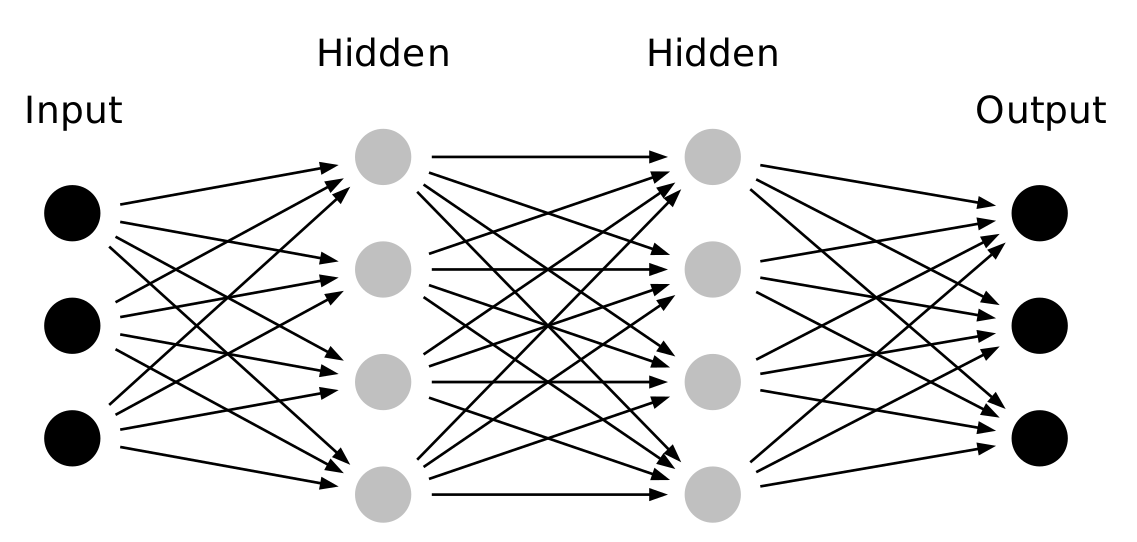
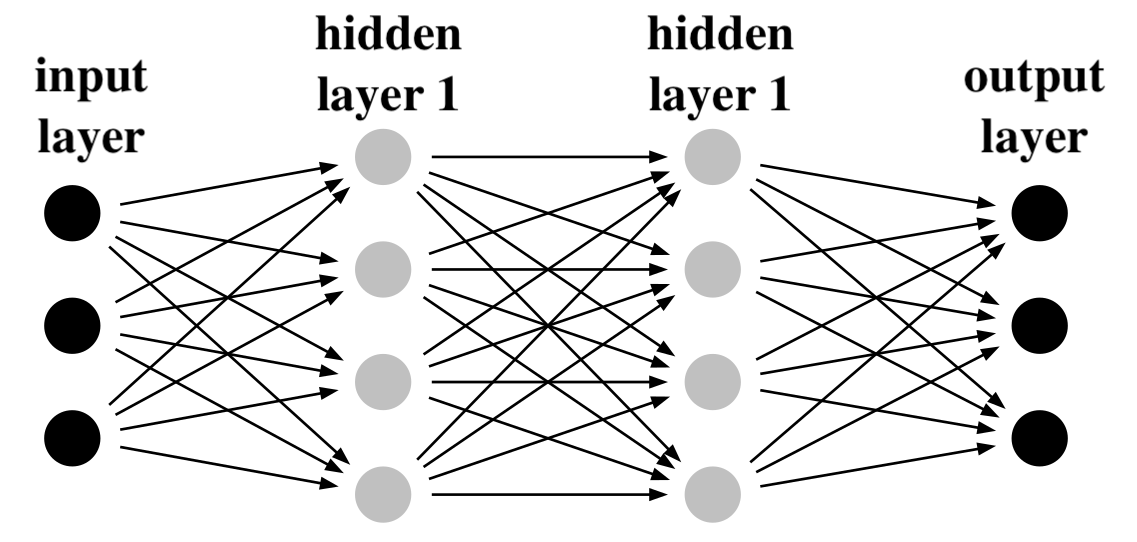
fixing some layout bugs and picture labels

diff --git a/README.md b/README.md
@@ -1,5 +1,7 @@
 # Simple Neural Network in Python Using Numpy
 
+---
+
 ## Prerequisites
 
 All you need is a working version of Python and Numpy. 
@@ -12,7 +14,11 @@ To install numpy:
 pip install numpy
 ```
 
+---
+
 ## Some Theoretical Basics
+
+---
 
 ### Neural Nets
 
@@ -24,7 +30,9 @@ Here is the layout:
 
 (Thanks to the author [this repo](https://github.com/martisak/dotnets) for typing up a quick and pretty visualization tool)
 
-#### Forward Pass
+---
+
+#### Forward Path
 
 Each edge has a weight, and inside each node there is some sort of activation function that is applied to the data that is coming in. Here is how everything happens:
 
@@ -42,15 +50,31 @@ In mathematical terms, we can express what happens in each node in the following
 
 This expression is exactly the ouput value of each node in the network. Here, *v<sub>i</sub>* is the *i<sup>th</sup>* input into the *j<sup>th</sup>* node, multiplied by the weight *w<sub>ij</sub>*, which is diplayed as the edge connecting input node *i* to the node *j*. The mysterious φ symbol is the activation function, and in this example we will use ReLU(Rectifier Linear Unit) and Sigmoid activation functions. Both of these functions are pretty straight-forward and common, so I will just show the formulas.
 
-Sigmoid function: ![alt text](https://github.com/antonarapin/simple_nn_python/blob/project_description/images/sigmoid.png "Sigmoid") 
+---
 
-ReLU function: ![alt text](https://github.com/antonarapin/simple_nn_python/blob/project_description/images/relu.png "ReLU")
+Sigmoid function: 
 
-The operation described above happens in each node in each layer, going from left to right from the first hidden layer to the output layer. Eventually, the outputs of the nodes in the ouput layer are the outputs of our network. And that is pretty much it for the forward pass, very straight-forward (yes, you have been PUNished)! 
+![alt text](https://github.com/antonarapin/simple_nn_python/blob/project_description/images/sigmoid.png "Sigmoid") 
+
+ReLU function: 
+
+![alt text](https://github.com/antonarapin/simple_nn_python/blob/project_description/images/relu.png "ReLU")
+---
+
+The operation described above happens in each node in each layer, going from left to right from the first hidden layer to the output layer. Eventually, the outputs of the nodes in the ouput layer are the outputs of our network. And that is pretty much it for the forward path, very straight-forward (yes, you have been PUNished)! 
 
 <sub>I know, people regard puns as something simple and often react to them like "euhh, yeah", but I think puns are awesome! They are the examples of inline creativity, embellishing the expression with their beautiful brefity and ingenuity.</sub>
 
+---
+
+#### Backward Path
+
+
+---
+
 ### Linear Algebra
+
+---
 
 ## Implementation
 
